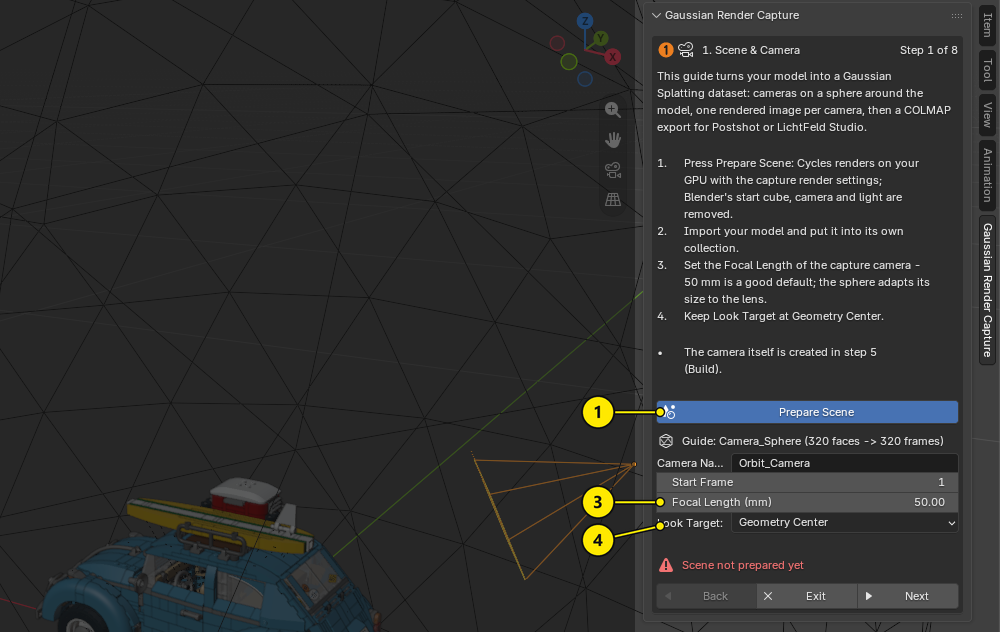
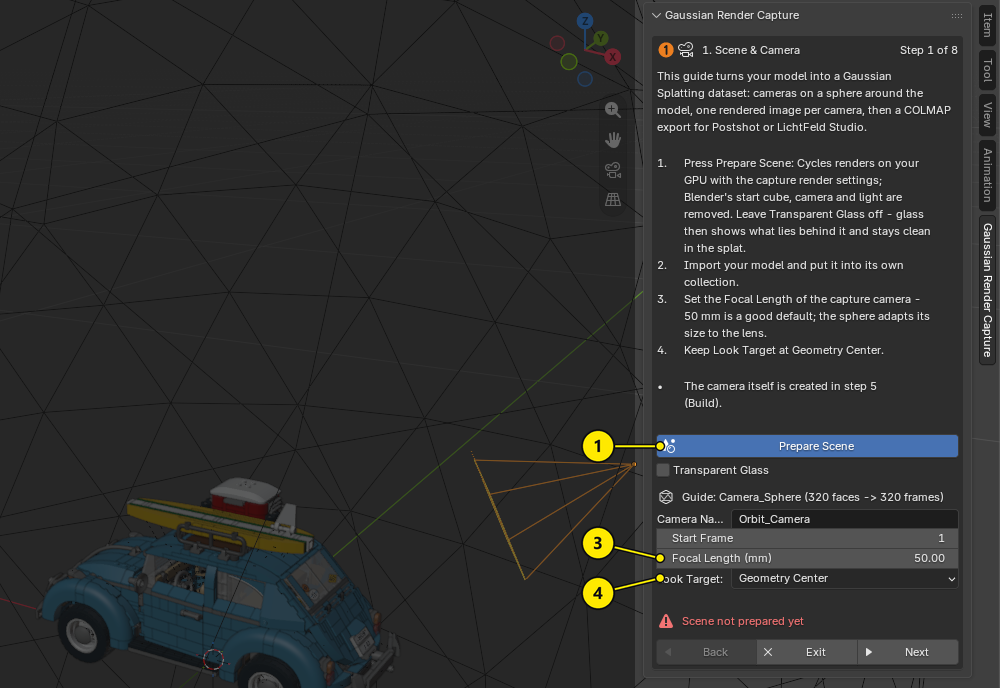
1.3.0: guide step 1 names Transparent Glass; screenshots B03, B04

diff --git a/gaussian_capture.py b/gaussian_capture.py
@@ -4235,7 +4235,8 @@ _GCAPTURE_WT_STEPS = [
               "LichtFeld Studio.",
          steps=["Press Prepare Scene: Cycles renders on your GPU with the "
                 "capture render settings; Blender's start cube, camera and "
-                "light are removed.",
+                "light are removed. Leave Transparent Glass off - glass then "
+                "shows what lies behind it and stays clean in the splat.",
                 "Import your model and put it into its own collection.",
                 "Set the Focal Length of the capture camera - 50 mm is a good "
                 "default; the sphere adapts its size to the lens.",
